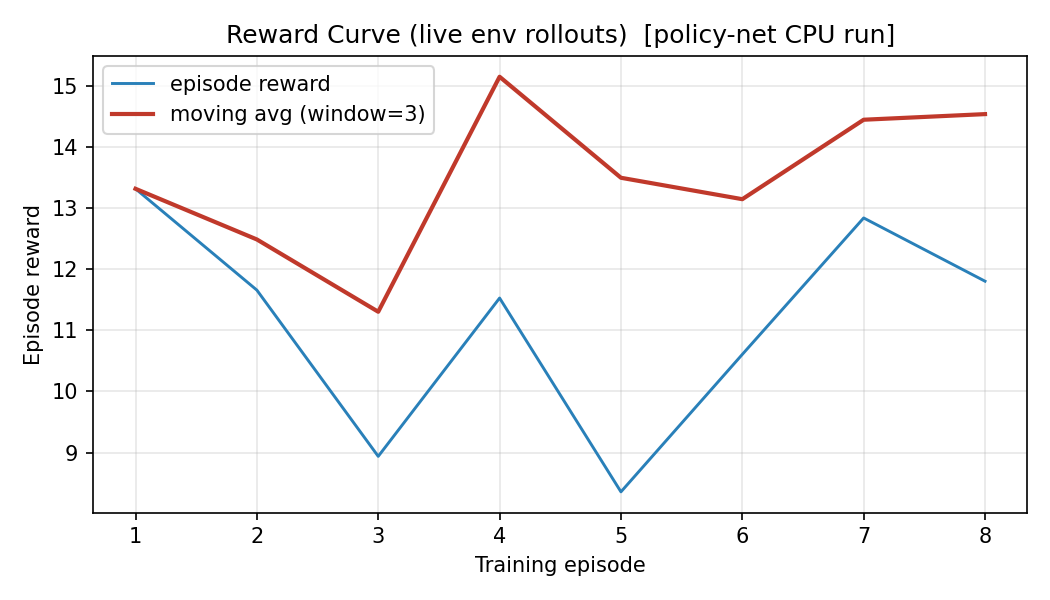
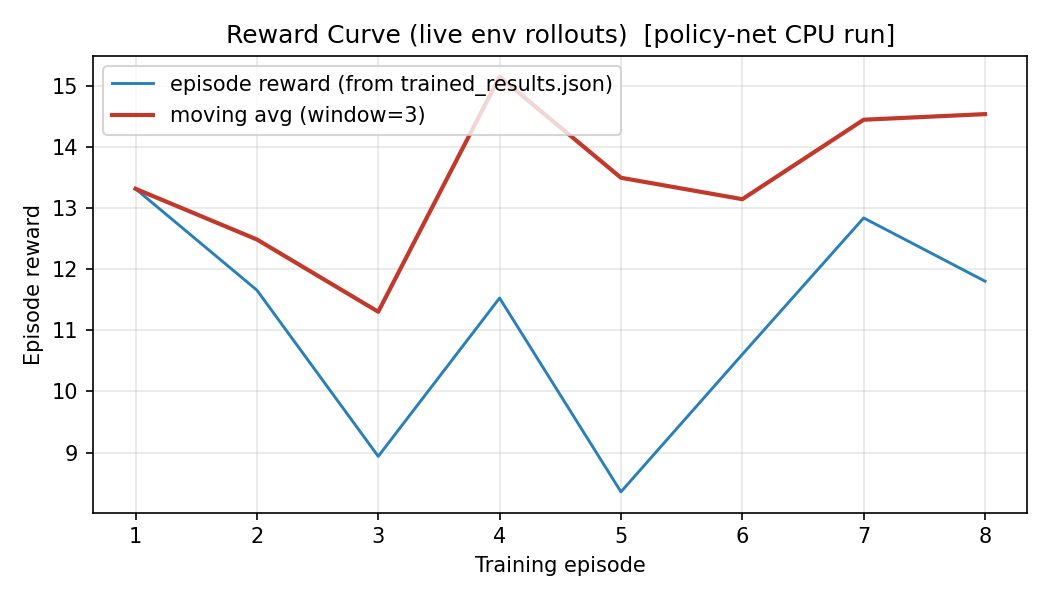
Fix reward_curve always showing placeholder when RL logs are missing
generate_plots.py was returning a "No training_logs.jsonl found" placeholder
whenever training_logs.jsonl had no RL-phase rows (reward != null). This
happens when the LLM GRPO phase crashes before writing any RL entries, even
though trained_results.json always has rl_rewards and rl_losses written at
the end of both the LLM and policy-net pipelines.

plot_reward_curve and plot_loss_curve now accept a `trained` dict and fall
back to trained_results.json rl_rewards / rl_losses when the jsonl has no
usable RL data. The plot legend notes the source so the result stays honest.
Regenerated plots from real training data.

Changed region(s): [[0.1219, 0.09, 0.579, 0.24]]

diff --git a/scripts/generate_plots.py b/scripts/generate_plots.py
@@ -83,23 +83,44 @@ def _agent_summary(payload: Dict[str, Any]) -> Dict[str, Dict[str, float]]:
 # ---------------------------------------------------------------------------
 
 def plot_reward_curve(training_logs: List[Dict[str, Any]], out_path: str,
-                      algo_label: str = "") -> bool:
+                      algo_label: str = "",
+                      trained: Optional[Dict[str, Any]] = None) -> bool:
     rl_entries = [e for e in training_logs if e.get("phase") == "rl" and isinstance(e.get("reward"), (int, float))]
     if not rl_entries:
         rl_entries = [e for e in training_logs if isinstance(e.get("reward"), (int, float))]
-    if not rl_entries:
-        return _placeholder_plot(
-            out_path,
-            title="Reward Curve",
-            xlabel="Training episode",
-            ylabel="Episode reward",
-            note="No training_logs.jsonl found — run scripts/train_trl.py to populate.",
-        )
-    rewards = [float(e["reward"]) for e in rl_entries]
-    episodes = [e.get("episode", e.get("step", i)) for i, e in enumerate(rl_entries)]
+
+    # Fall back to trained_results.json rl_rewards when the jsonl has no RL rows.
+    # Both LLM and policy-net paths always write rl_rewards there.
+    if not rl_entries and trained:
+        raw_rewards = trained.get("rl_rewards") or []
+        if raw_rewards:
+            rewards = [float(r) for r in raw_rewards]
+            episodes = list(range(1, len(rewards) + 1))
+            source_note = "from trained_results.json"
+        else:
+            return _placeholder_plot(
+                out_path,
+                title="Reward Curve",
+                xlabel="Training episode",
+                ylabel="Episode reward",
+                note="No RL reward data found — run scripts/train_trl.py first.",
+            )
+    else:
+        if not rl_entries:
+            return _placeholder_plot(
+                out_path,
+                title="Reward Curve",
+                xlabel="Training episode",
+                ylabel="Episode reward",
+                note="No RL reward data found — run scripts/train_trl.py first.",
+            )
+        rewards = [float(e["reward"]) for e in rl_entries]
+        episodes = [e.get("episode", e.get("step", i + 1)) for i, e in enumerate(rl_entries)]
+        source_note = "from training_logs.jsonl"
+
     suffix = f"  [{algo_label}]" if algo_label else ""
     plt.figure(figsize=(7, 4))
-    plt.plot(episodes, rewards, label="episode reward", linewidth=1.4, color="#2980b9")
+    plt.plot(episodes, rewards, label=f"episode reward ({source_note})", linewidth=1.4, color="#2980b9")
     if len(rewards) >= 5:
         window = max(3, len(rewards) // 8)
         smoothed = [sum(rewards[max(0, i - window):i + 1]) / max(1, min(i + 1, window))
@@ -118,15 +139,45 @@ def plot_reward_curve(training_logs: List[Dict[str, Any]], out_path: str,
 
 
 def plot_loss_curve(training_logs: List[Dict[str, Any]], out_path: str,
-                    algo_label: str = "") -> bool:
+                    algo_label: str = "",
+                    trained: Optional[Dict[str, Any]] = None) -> bool:
     sft = [e for e in training_logs if e.get("phase") == "sft" and isinstance(e.get("loss"), (int, float))]
     rl = [e for e in training_logs if e.get("phase") == "rl" and isinstance(e.get("loss"), (int, float))]
     if not sft and not rl:
         rl = [e for e in training_logs if isinstance(e.get("loss"), (int, float))]
+
+    # Fall back to trained_results.json rl_losses when the jsonl has no loss rows.
+    if not sft and not rl and trained:
+        raw_losses = trained.get("rl_losses") or []
+        if raw_losses:
+            sft_losses_fb = trained.get("sft_loss") or trained.get("sft_losses") or []
+            suffix = f"  [{algo_label}]" if algo_label else ""
+            plt.figure(figsize=(7, 4))
+            if isinstance(sft_losses_fb, list) and sft_losses_fb:
+                plt.plot(list(range(1, len(sft_losses_fb) + 1)),
+                         [float(v) for v in sft_losses_fb],
+                         label="SFT loss (warm-start)", color="#8e44ad", linewidth=1.6, marker="o")
+                offset = len(sft_losses_fb)
+            else:
+                offset = 0
+            rl_x = list(range(offset + 1, offset + 1 + len(raw_losses)))
+            plt.plot(rl_x, [float(v) for v in raw_losses],
+                     label="RL policy loss (from trained_results.json)",
+                     color="#c0392b", linewidth=1.4)
+            plt.title(f"Loss Curve (SFT + RL){suffix}")
+            plt.xlabel("Update step")
+            plt.ylabel("Loss")
+            plt.legend()
+            plt.grid(alpha=0.3)
+            plt.tight_layout()
+            plt.savefig(out_path, dpi=150)
+            plt.close()
+            return True
+
     if not sft and not rl:
         return _placeholder_plot(
             out_path, title="Loss Curve", xlabel="Update step", ylabel="Loss",
-            note="No training_logs.jsonl found — run scripts/train_trl.py to populate.",
+            note="No loss data found — run scripts/train_trl.py first.",
         )
     sft_steps: List = []
     suffix = f"  [{algo_label}]" if algo_label else ""
@@ -281,8 +332,8 @@ def main():
         metrics_summary = _agent_summary(baseline)
 
     plots = [
-        ("reward_curve.png", lambda p: plot_reward_curve(training_logs, p, algo_label)),
-        ("loss_curve.png", lambda p: plot_loss_curve(training_logs, p, algo_label)),
+        ("reward_curve.png", lambda p: plot_reward_curve(training_logs, p, algo_label, trained)),
+        ("loss_curve.png", lambda p: plot_loss_curve(training_logs, p, algo_label, trained)),
         ("outage_comparison.png", lambda p: plot_outage_comparison(metrics_summary, p)),
         ("cascade_count_comparison.png", lambda p: plot_cascade_count_comparison(metrics_summary, p)),
         ("critical_job_completion.png", lambda p: plot_critical_job_completion(metrics_summary, p)),
